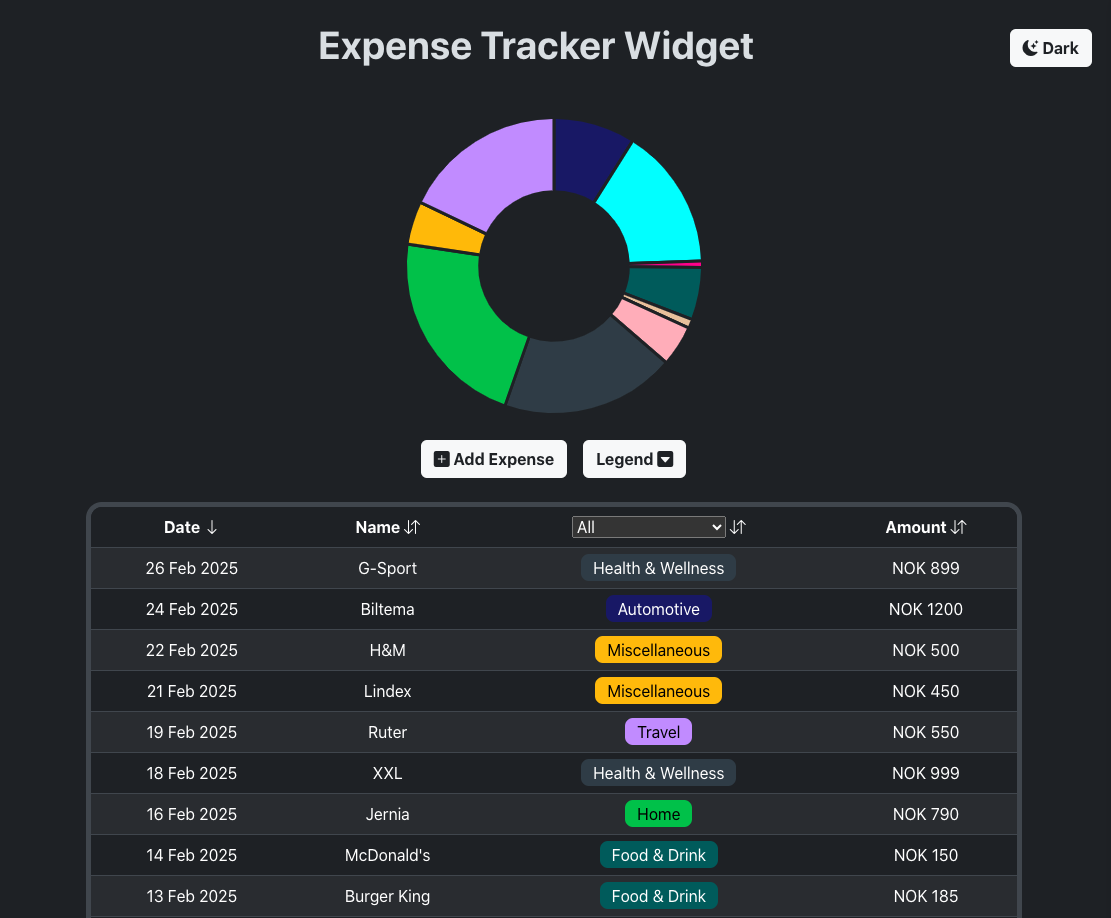
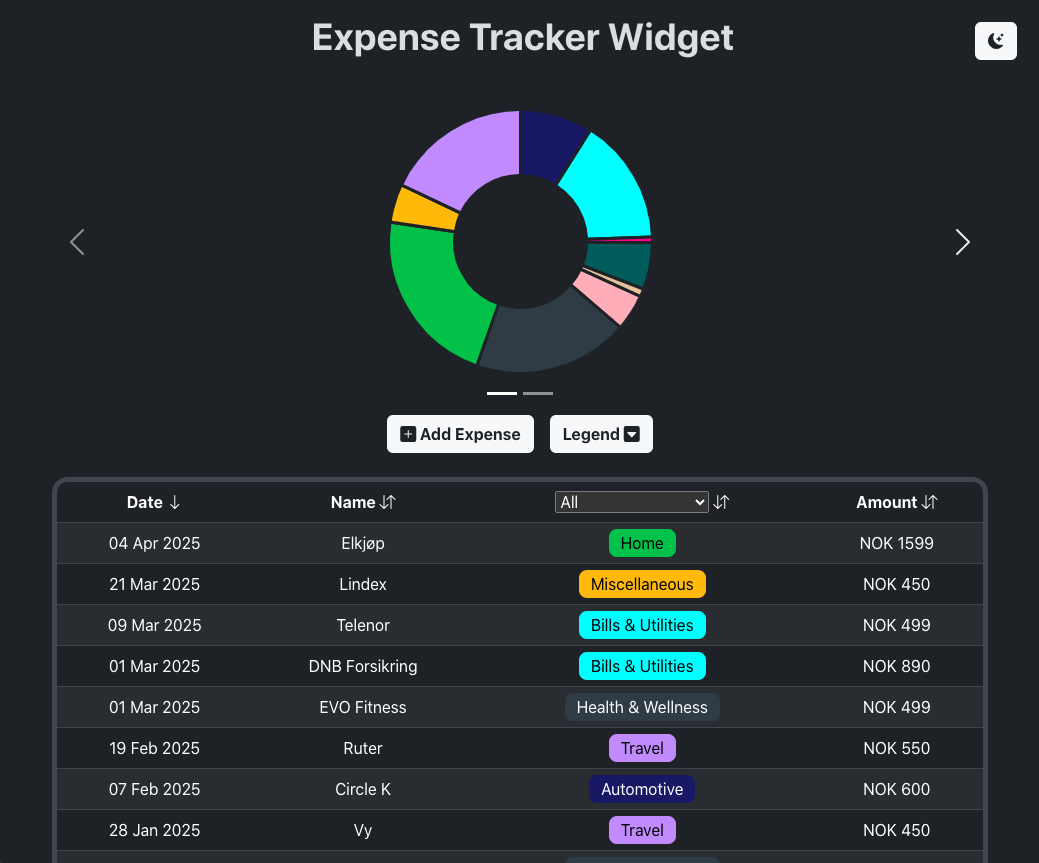
updated screenshot

diff --git a/client/src/components/Header.js b/client/src/components/Header.js
@@ -19,7 +19,7 @@ function Header() {
           }}
         >
           <i className={darkMode ? "bi bi-moon-stars-fill" : "bi bi-sun-fill"}></i>
-          <text> {darkMode ? "Dark" : "Light"} </text>
+          {/* <text> {darkMode ? "Dark" : "Light"} </text> */}
         </button>
       </div>
     </div>
